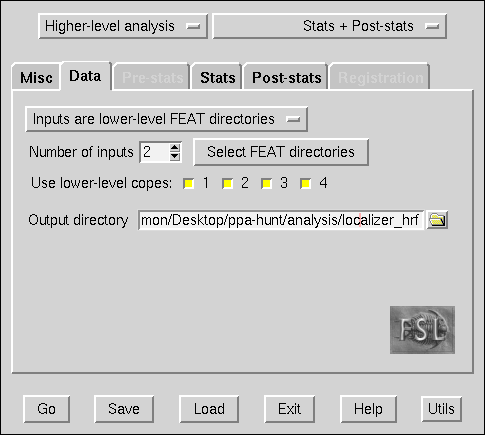
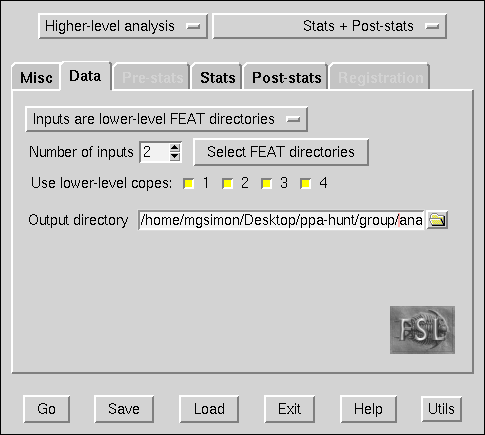
put group analysis stuff in group folder

Changed region(s): [[0.3093, 0.4782, 0.866, 0.5379]]

diff --git a/doc/tutorial/tutorial.rst b/doc/tutorial/tutorial.rst
@@ -630,7 +630,7 @@ Launch FEAT::
 The Data tab
 ''''''''''''
 
-Change the drop-down in the top left from "First-level analysis" to "Higher-level analysis". This will change the stuff you see below. Change "Number of inputs" to 2, because we're combining 2 within-subjects analyses, then click "Select FEAT directories". For the first directory, select *~/ppa-hunt/subjects/0608101_conatt02/analysis/firstlevel/localizer_hrf.feat*, and for the second, select *~/ppa-hunt/subjects/0608102_conatt02/analysis/firstlevel/localizer_hrf.feat*. Set the output directory to *~/ppa-hunt/analysis/localizer_hrf*.
+Change the drop-down in the top left from "First-level analysis" to "Higher-level analysis". This will change the stuff you see below. Change "Number of inputs" to 2, because we're combining 2 within-subjects analyses, then click "Select FEAT directories". For the first directory, select *~/ppa-hunt/subjects/0608101_conatt02/analysis/firstlevel/localizer_hrf.feat*, and for the second, select *~/ppa-hunt/subjects/0608102_conatt02/analysis/firstlevel/localizer_hrf.feat*. Set the output directory to *~/ppa-hunt/group/analysis/localizer_hrf*.
 
 Go to the Stats tab.
 
@@ -656,4 +656,4 @@ When the analysis finishes, open FSLview::
 
   $ fslview &
 
-Click File>Open Standard and accept the default. Click File>Add, and select *~/ppa-hunt/analysis/localizer_hrf.gfeat/cope3.feat/stats/zstat1.nii.gz*. 
+Click File>Open Standard and accept the default. Click File>Add, and select *~/ppa-hunt/group/analysis/localizer_hrf.gfeat/cope3.feat/stats/zstat1.nii.gz*. 
